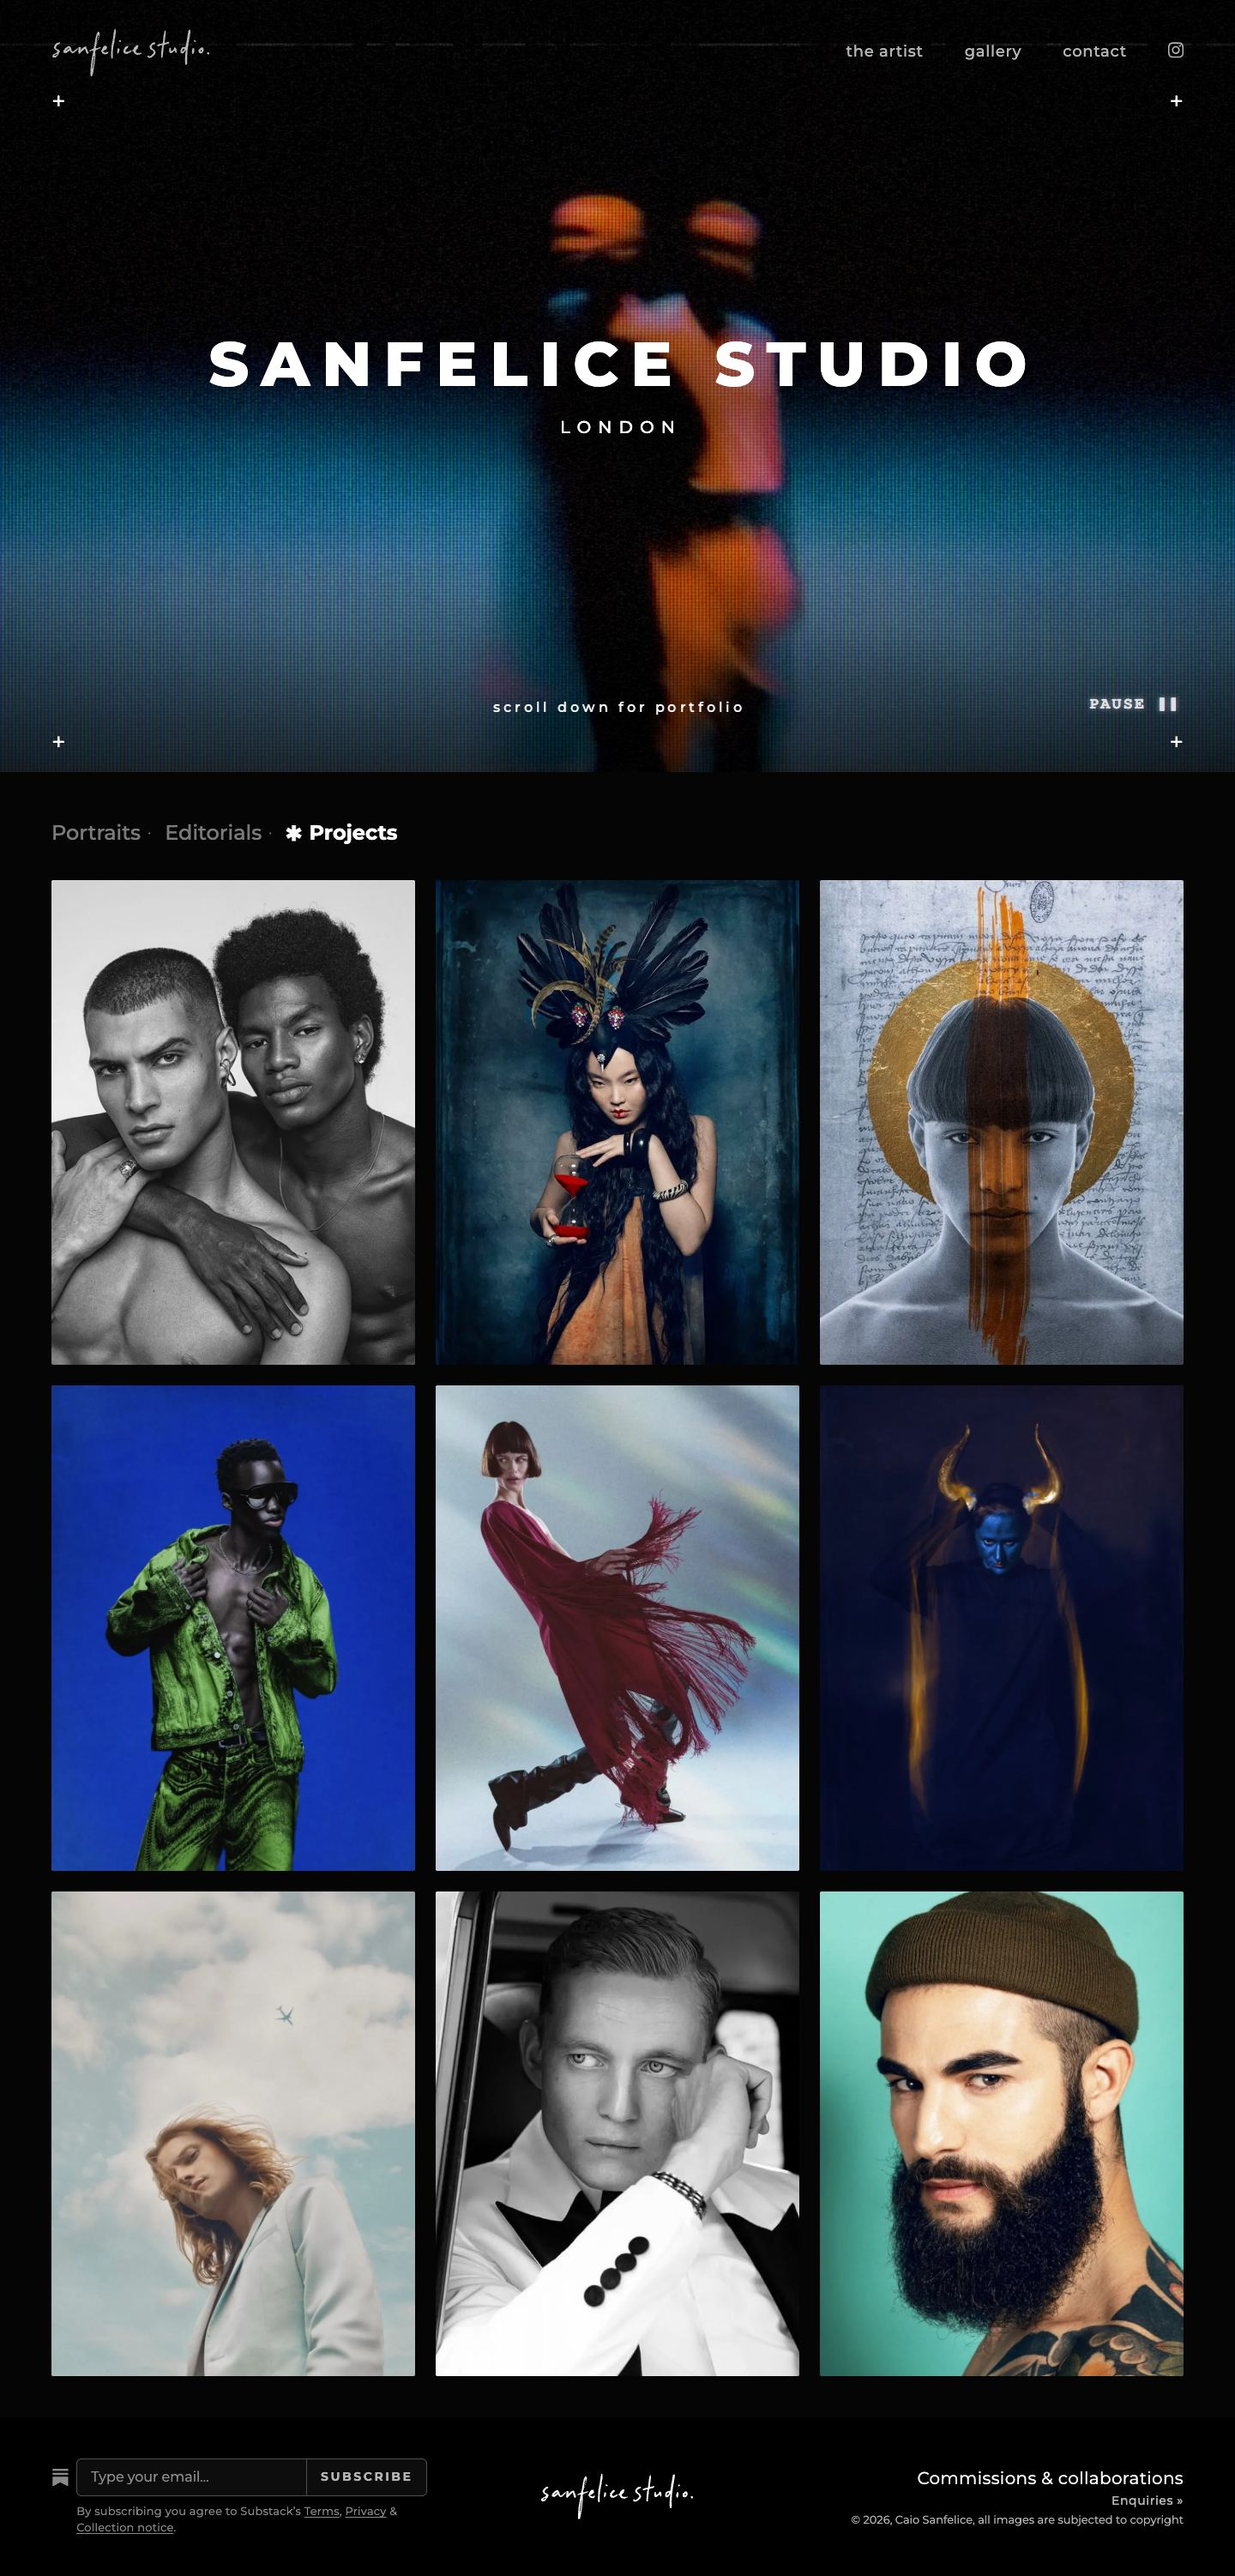
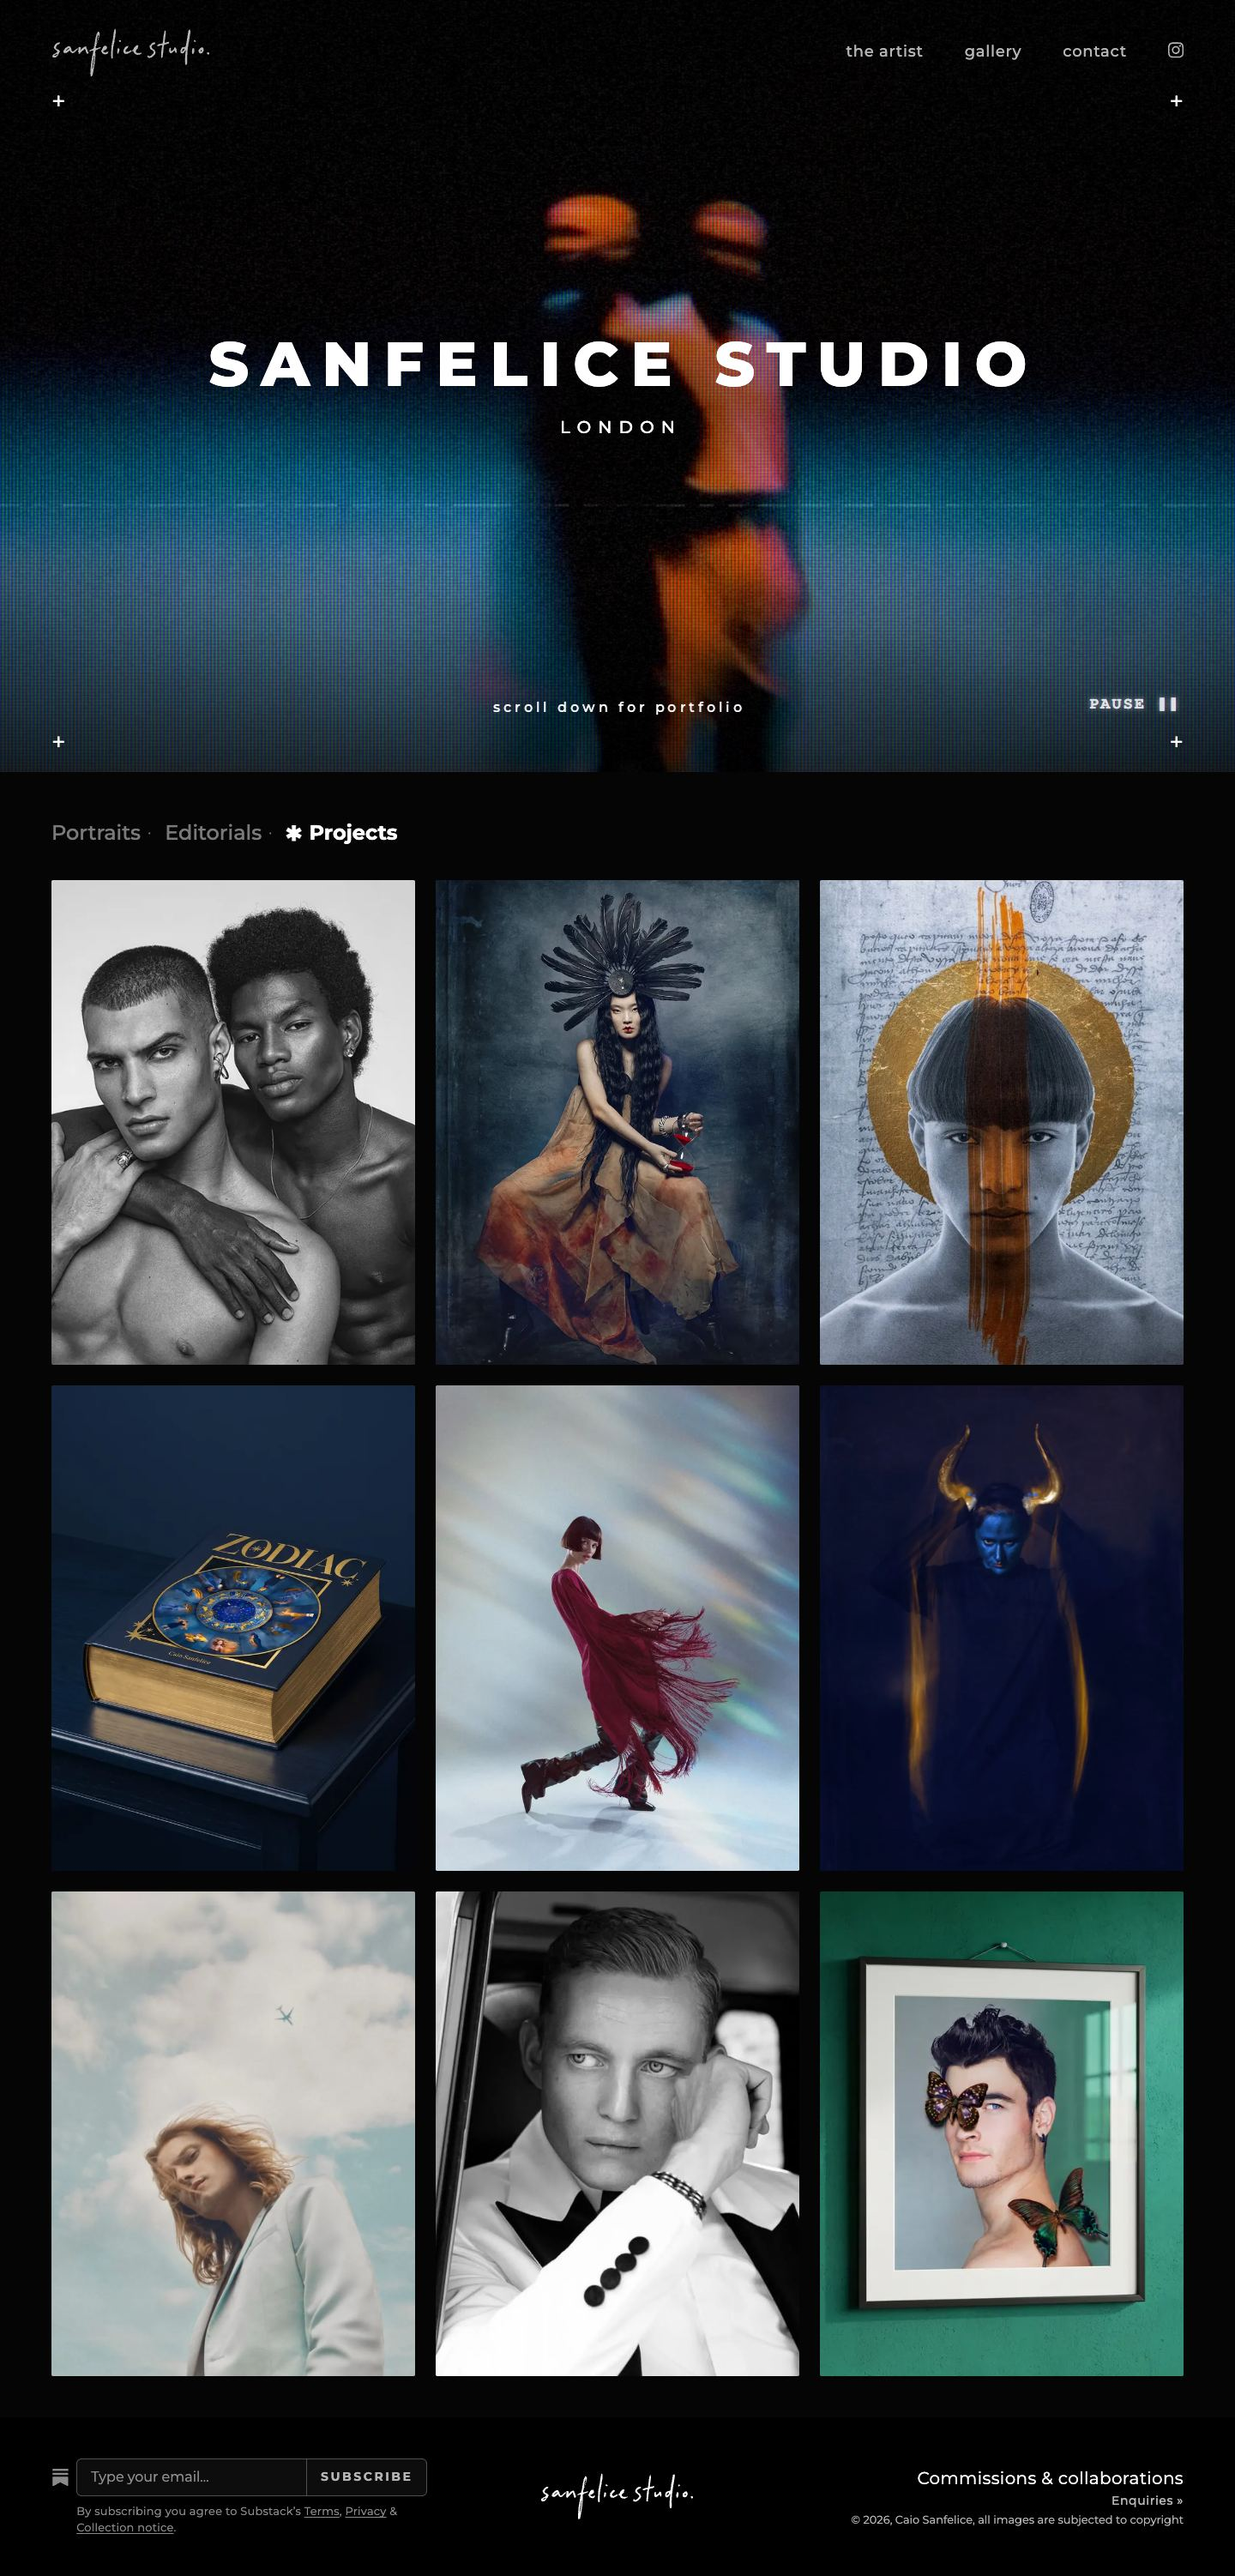
docs: refresh screenshots, Lighthouse scores and bug list after the photo update

diff --git a/README.md b/README.md
@@ -177,7 +177,7 @@ All six pages pass with **no errors or warnings**. The shared navbar and footer 
 
 ### Lighthouse
 
-Every page scores **100** in Accessibility, Best Practices and SEO, on desktop and mobile. Performance is 92 to 99 on every page except Editorials on mobile (80); the full table is in [VALIDATION.md](VALIDATION.md).
+Every page scores **100** in Accessibility, Best Practices and SEO, on desktop and mobile. Performance is 92 to 99 on every page, on desktop and mobile; the full table is in [VALIDATION.md](VALIDATION.md).
 
 <img src="readme-images/lighthouse-mobile.png" alt="Lighthouse report for the Home page: Performance 98, Accessibility 100, Best Practices 100, SEO 100" width="420">
 
@@ -206,10 +206,12 @@ Every page scores **100** in Accessibility, Best Practices and SEO, on desktop a
 | 6 errors in the W3C CSS validator | Modern features the validator does not recognise yet (container queries, scroll-driven animation) | Rewritten with media queries and an `IntersectionObserver` |
 | Two `alt` texts were cut short | Unescaped quote marks (`"`) inside the attribute | Written as `&quot;` |
 | Lighthouse Performance 66 on desktop | The WebGL effect was set up while the page was still loading | The effect starts after the page has loaded |
+| One Projects photo did not appear | The new photo was saved as `.png`, but the page asked for `.webp` | Converted to WebP with the expected file name |
+| New high-resolution gallery photos added about 26 MB to the pages | The full-size exports were used directly in the gallery | Each photo now has a 720 px thumbnail for the gallery and a larger `-full` version (max 1800 px) that loads only when the photo is opened |
+| Two photos showed a white border in the gallery | The border is part of the image file | Cropped from the gallery thumbnail only; the full photo with its border still opens in the lightbox |
 
 **Known issues**
 
-- Editorials scores 80 for Performance on mobile because some magazine cover images are larger than needed; the gallery images are being re-exported at smaller sizes.
 - The site must be opened through a web server (Live Server locally, or the live link). Opened straight from the file system (`file://`), the browser blocks loading the navbar and footer and the WebGL effect.
 
 ## Deployment

diff --git a/VALIDATION.md b/VALIDATION.md
@@ -31,10 +31,10 @@ A first run reported 6 errors and 1 warning. They came from modern CSS features 
 
 | Page | Desktop: Performance | Mobile: Performance | Accessibility | Best Practices | SEO |
 |---|---|---|---|---|---|
-| Home | 99 | 94 | 100 | 100 | 100 |
+| Home | 99 | 97 | 100 | 100 | 100 |
 | The Artist (About) | 97 | 92 | 100 | 100 | 100 |
 | Portraits | 99 | 95 | 100 | 100 | 100 |
-| Editorials | 99 | 80 | 100 | 100 | 100 |
+| Editorials | 99 | 95 | 100 | 100 | 100 |
 | Projects | 99 | 95 | 100 | 100 | 100 |
 | Contact | 99 | 95 | 100 | 100 | 100 |
 
@@ -42,7 +42,7 @@ A first run reported 6 errors and 1 warning. They came from modern CSS features 
 
 - Home desktop Performance was 66: the WebGL VHS effect was set up while the page was still loading (620 ms of blocking time). It now starts after the page has loaded and the browser is idle → 99.
 - About SEO was 92: the four "See More" links had the same text. Each one now has visually hidden text naming its service (e.g. "See More photography work") → 100.
-- Editorials mobile Performance (80) is limited by the size of the magazine cover images; the gallery images are being re-exported at smaller sizes.
+- Gallery photos: new high-resolution exports were replaced with 720 px thumbnails for the gallery, with a larger version loaded only when a photo is opened → Home mobile 94 → 97, Editorials mobile 80 → 95.
 
 ## Screenshots
 
